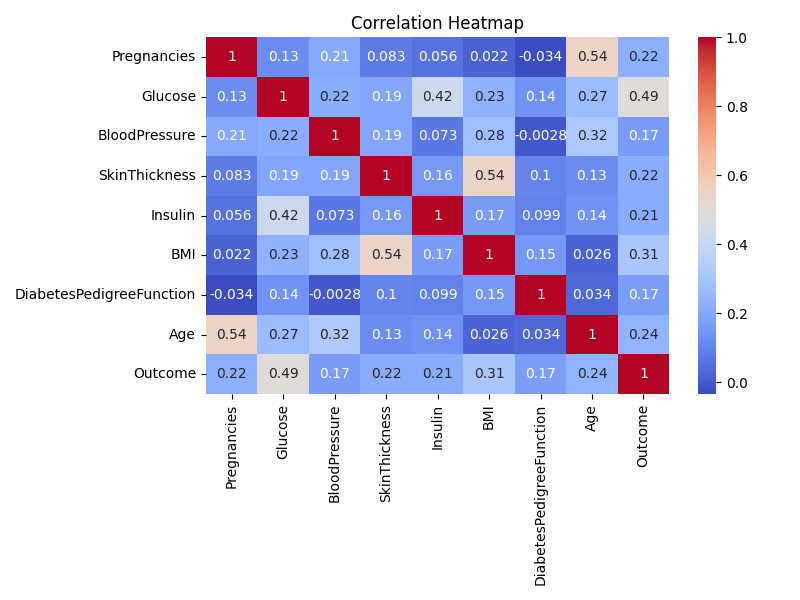
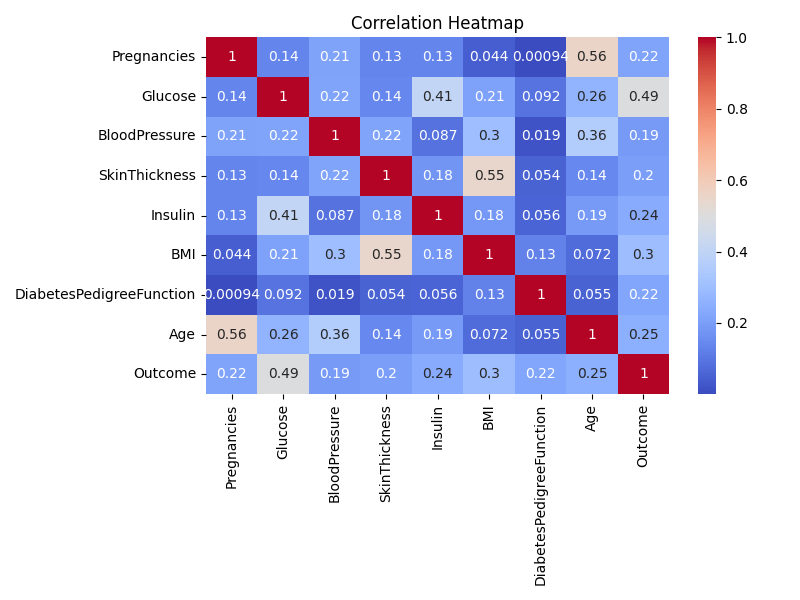
new-2

diff --git a/index.html b/index.html
@@ -3,18 +3,80 @@
 <head>
     <meta charset="UTF-8">
     <title>Diabetes Prediction</title>
+    <style>
+        body {
+            font-family: Arial, sans-serif;
+            background: #f7f7f7;
+            margin: 0;
+            padding: 0;
+            display: flex;
+            flex-direction: column;
+            align-items: center;
+            min-height: 100vh;
+        }
+        h2 {
+            margin-top: 40px;
+            color: #333;
+        }
+        form {
+            background: #fff;
+            padding: 24px 32px;
+            border-radius: 8px;
+            box-shadow: 0 2px 8px rgba(0,0,0,0.08);
+            margin-top: 16px;
+            min-width: 300px;
+        }
+        label {
+            display: block;
+            margin-bottom: 12px;
+            color: #222;
+        }
+        input[type="number"] {
+            width: 100%;
+            padding: 6px;
+            margin-top: 2px;
+            border: 1px solid #ccc;
+            border-radius: 4px;
+            box-sizing: border-box;
+        }
+        button {
+            margin-top: 10px;
+            padding: 8px 18px;
+            background: #1976d2;
+            color: #fff;
+            border: none;
+            border-radius: 4px;
+            cursor: pointer;
+            font-size: 1em;
+        }
+        button:hover {
+            background: #1565c0;
+        }
+        #result {
+            margin-top: 24px;
+            font-size: 1.2em;
+            font-weight: bold;
+            color: #1976d2;
+            background: #e3f2fd;
+            border-radius: 6px;
+            padding: 16px;
+            min-width: 250px;
+            text-align: center;
+            display: none;
+        }
+    </style>
 </head>
 <body>
     <h2>Diabetes Prediction Form</h2>
     <form id="diabetes-form">
-        <label>Pregnancies: <input type="number" name="Pregnancies" required></label><br>
-        <label>Glucose: <input type="number" name="Glucose" required></label><br>
-        <label>Blood Pressure: <input type="number" name="BloodPressure" required></label><br>
-        <label>Skin Thickness: <input type="number" name="SkinThickness" required></label><br>
-        <label>Insulin: <input type="number" name="Insulin" required></label><br>
-        <label>BMI: <input type="number" step="0.1" name="BMI" required></label><br>
-        <label>Diabetes Pedigree Function: <input type="number" step="0.01" name="DiabetesPedigreeFunction" required></label><br>
-        <label>Age: <input type="number" name="Age" required></label><br>
+        <label>Pregnancies: <input type="number" name="Pregnancies" required></label>
+        <label>Glucose: <input type="number" name="Glucose" required></label>
+        <label>Blood Pressure: <input type="number" name="BloodPressure" required></label>
+        <label>Skin Thickness: <input type="number" name="SkinThickness" required></label>
+        <label>Insulin: <input type="number" name="Insulin" required></label>
+        <label>BMI: <input type="number" step="0.1" name="BMI" required></label>
+        <label>Diabetes Pedigree Function: <input type="number" step="0.01" name="DiabetesPedigreeFunction" required></label>
+        <label>Age: <input type="number" name="Age" required></label>
         <button type="submit">Predict</button>
     </form>
     <div id="result"></div>
@@ -38,7 +100,9 @@
                 body: JSON.stringify(data)
             });
             const result = await res.json();
-            document.getElementById('result').innerText = result.result;
+            const resultDiv = document.getElementById('result');
+            resultDiv.innerText = result.result;
+            resultDiv.style.display = 'block';
         };
     </script>
 </body>

diff --git a/app.py b/app.py
@@ -13,6 +13,7 @@ import seaborn as sns
 app = Flask(__name__)
 
 
+
 # Load and clean data
 DATA_PATH = 'diabetes.csv'
 cols_with_zero = ['Glucose', 'BloodPressure', 'SkinThickness', 'Insulin', 'BMI']
@@ -20,6 +21,18 @@ df = pd.read_csv(DATA_PATH)
 for col in cols_with_zero:
     df[col] = df[col].replace(0, np.nan)
     df[col].fillna(df[col].mean(), inplace=True)
+
+
+
+# Remove outliers (rows where any feature is more than 3 std from mean)
+numeric_cols = df.select_dtypes(include=[np.number]).columns.tolist()
+numeric_cols.remove('Outcome')
+for col in numeric_cols:
+    mean = df[col].mean()
+    std = df[col].std()
+    df = df[(df[col] >= mean - 3*std) & (df[col] <= mean + 3*std)]
+
+
 
 # EDA: Data statistics
 print("\n--- Data Statistics ---")
@@ -37,11 +50,23 @@ plt.close()
 df.hist(bins=15, figsize=(12,8))
 plt.tight_layout()
 plt.savefig('feature_histograms.png')
+# Remove outliers (rows where any feature is more than 3 std from mean)
+numeric_cols = df.select_dtypes(include=[np.number]).columns.tolist()
+numeric_cols.remove('Outcome')
+for col in numeric_cols:
+    mean = df[col].mean()
+    std = df[col].std()
+    df = df[(df[col] >= mean - 3*std) & (df[col] <= mean + 3*std)]
 plt.close()
 
 
-# Features and target
-X = df.drop('Outcome', axis=1)
+
+
+# Feature engineering: add interaction and polynomial features
+df['Glucose_BMI'] = df['Glucose'] * df['BMI']
+df['BMI_Squared'] = df['BMI'] ** 2
+# Features and target (add engineered features for training)
+X = df[['Pregnancies', 'Glucose', 'BloodPressure', 'SkinThickness', 'Insulin', 'BMI', 'DiabetesPedigreeFunction', 'Age', 'Glucose_BMI', 'BMI_Squared']]
 y = df['Outcome']
 
 # Split data
@@ -53,33 +78,52 @@ X_train_scaled = scaler.fit_transform(X_train)
 X_test_scaled = scaler.transform(X_test)
 
 
+
 # Train models
-dt_model = DecisionTreeClassifier(random_state=42)
+dt_model = DecisionTreeClassifier(random_state=42, class_weight='balanced')
 dt_model.fit(X_train_scaled, y_train)
-lr_model = LogisticRegression(max_iter=200)
+lr_model = LogisticRegression(max_iter=200, class_weight='balanced')
 lr_model.fit(X_train_scaled, y_train)
 nb_model = GaussianNB()
 nb_model.fit(X_train_scaled, y_train)
 
 
-# Evaluate models
+
+# Evaluate models and select the best one
 print('\n--- Decision Tree ---')
 dt_pred = dt_model.predict(X_test_scaled)
-print('Accuracy:', accuracy_score(y_test, dt_pred))
+dt_acc = accuracy_score(y_test, dt_pred)
+print('Accuracy:', dt_acc)
 print('Confusion Matrix:\n', confusion_matrix(y_test, dt_pred))
 print('Classification Report:\n', classification_report(y_test, dt_pred))
 
 print('\n--- Logistic Regression ---')
 lr_pred = lr_model.predict(X_test_scaled)
-print('Accuracy:', accuracy_score(y_test, lr_pred))
+lr_acc = accuracy_score(y_test, lr_pred)
+print('Accuracy:', lr_acc)
 print('Confusion Matrix:\n', confusion_matrix(y_test, lr_pred))
 print('Classification Report:\n', classification_report(y_test, lr_pred))
 
 print('\n--- Naive Bayes ---')
 nb_pred = nb_model.predict(X_test_scaled)
-print('Accuracy:', accuracy_score(y_test, nb_pred))
+nb_acc = accuracy_score(y_test, nb_pred)
+print('Accuracy:', nb_acc)
 print('Confusion Matrix:\n', confusion_matrix(y_test, nb_pred))
 print('Classification Report:\n', classification_report(y_test, nb_pred))
+
+# Select the best model (highest accuracy)
+best_model_name = 'Decision Tree'
+best_model = dt_model
+best_acc = dt_acc
+if lr_acc > best_acc:
+    best_model_name = 'Logistic Regression'
+    best_model = lr_model
+    best_acc = lr_acc
+if nb_acc > best_acc:
+    best_model_name = 'Naive Bayes'
+    best_model = nb_model
+    best_acc = nb_acc
+print(f'\nBest model: {best_model_name} (Accuracy: {best_acc:.2f})')
 
 # ROC Curve
 plt.figure(figsize=(7,5))
@@ -109,24 +153,26 @@ plt.close()
 @app.route('/predict', methods=['POST'])
 def predict():
     data = request.json
+
+    # Compute engineered features for prediction
+    glucose_bmi = data['Glucose'] * data['BMI']
+    bmi_squared = data['BMI'] ** 2
     input_data = np.array([
         data['Pregnancies'], data['Glucose'], data['BloodPressure'],
         data['SkinThickness'], data['Insulin'], data['BMI'],
-        data['DiabetesPedigreeFunction'], data['Age']
+        data['DiabetesPedigreeFunction'], data['Age'],
+        glucose_bmi, bmi_squared
     ]).reshape(1, -1)
     input_scaled = scaler.transform(input_data)
-    dt_pred = dt_model.predict(input_scaled)[0]
-    lr_pred = lr_model.predict(input_scaled)[0]
-    nb_pred = nb_model.predict(input_scaled)[0]
-    # Use majority vote (or just LR for simplicity)
-    # You can change to majority vote if you want
-    result = lr_pred
+    # Use the best model for prediction
+    result = best_model.predict(input_scaled)[0]
     if result == 0:
         return jsonify({'result': '✅ Non-Diabetic'})
     else:
         return jsonify({'result': '⚠ Diabetic - High Risk'})
 
 # Serve the HTML form
+        glucose_bmi, bmi_squared
 @app.route('/')
 def home():
     return render_template_string(open('index.html').read())
